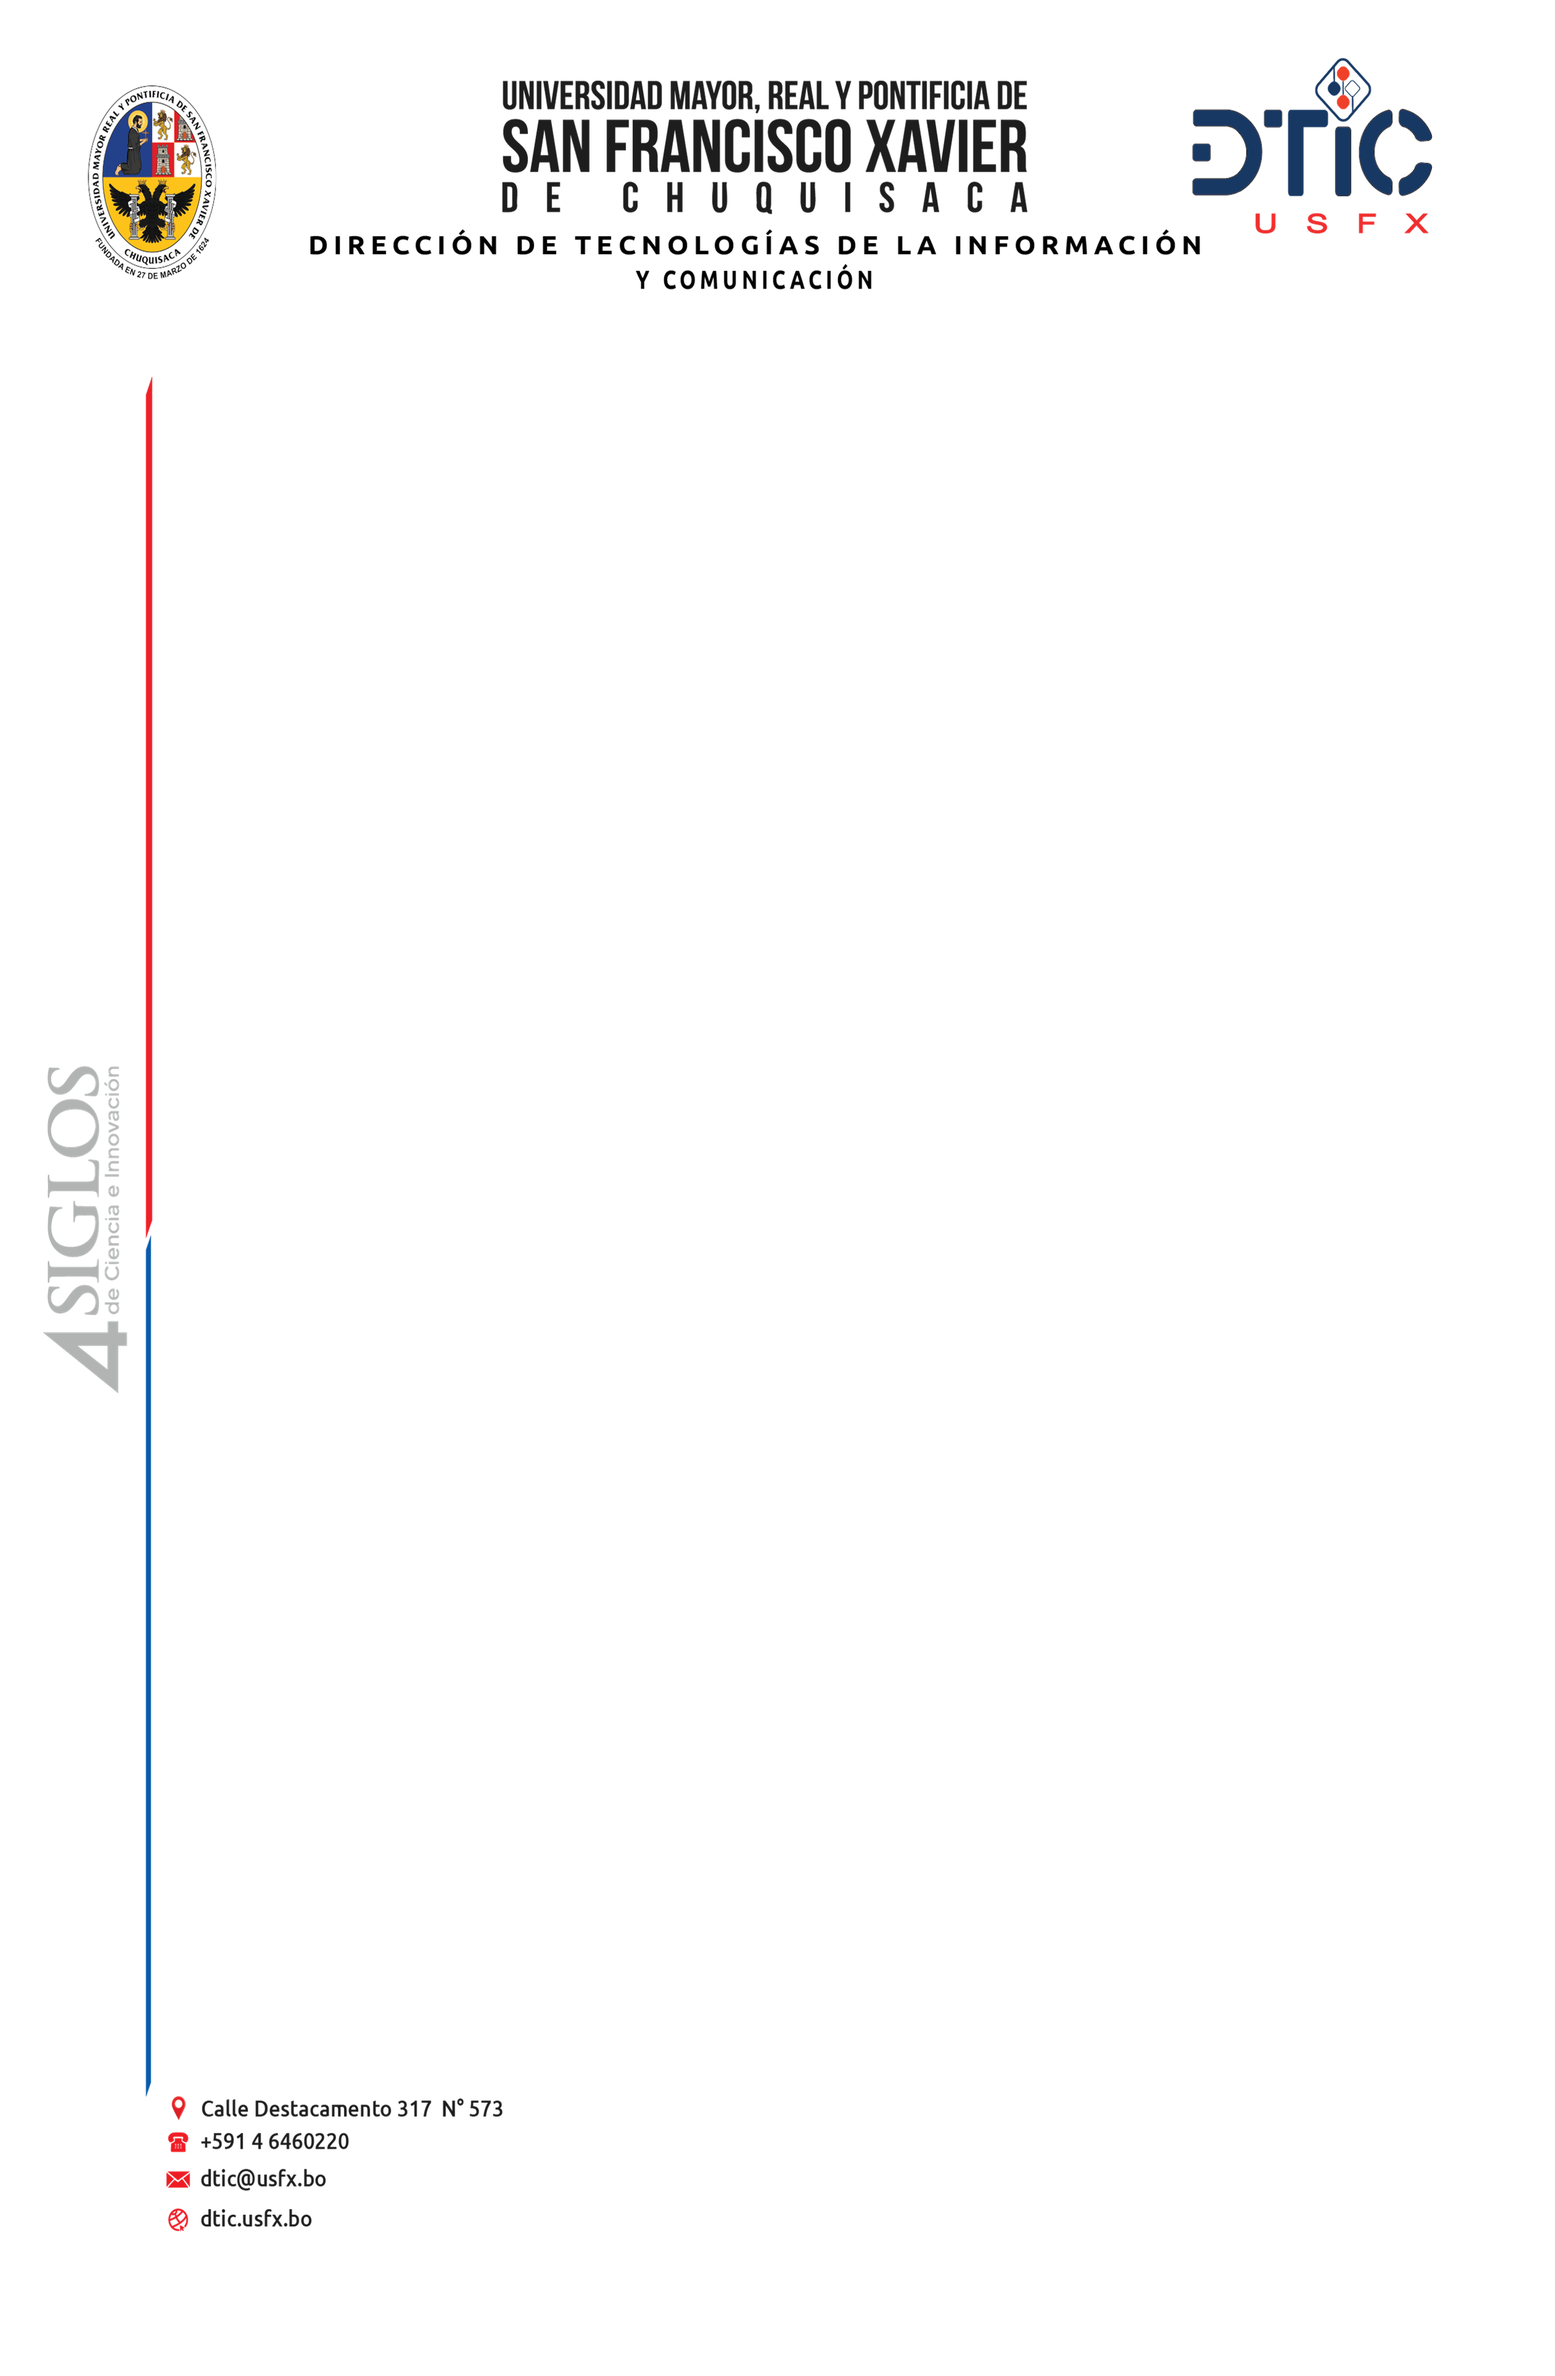
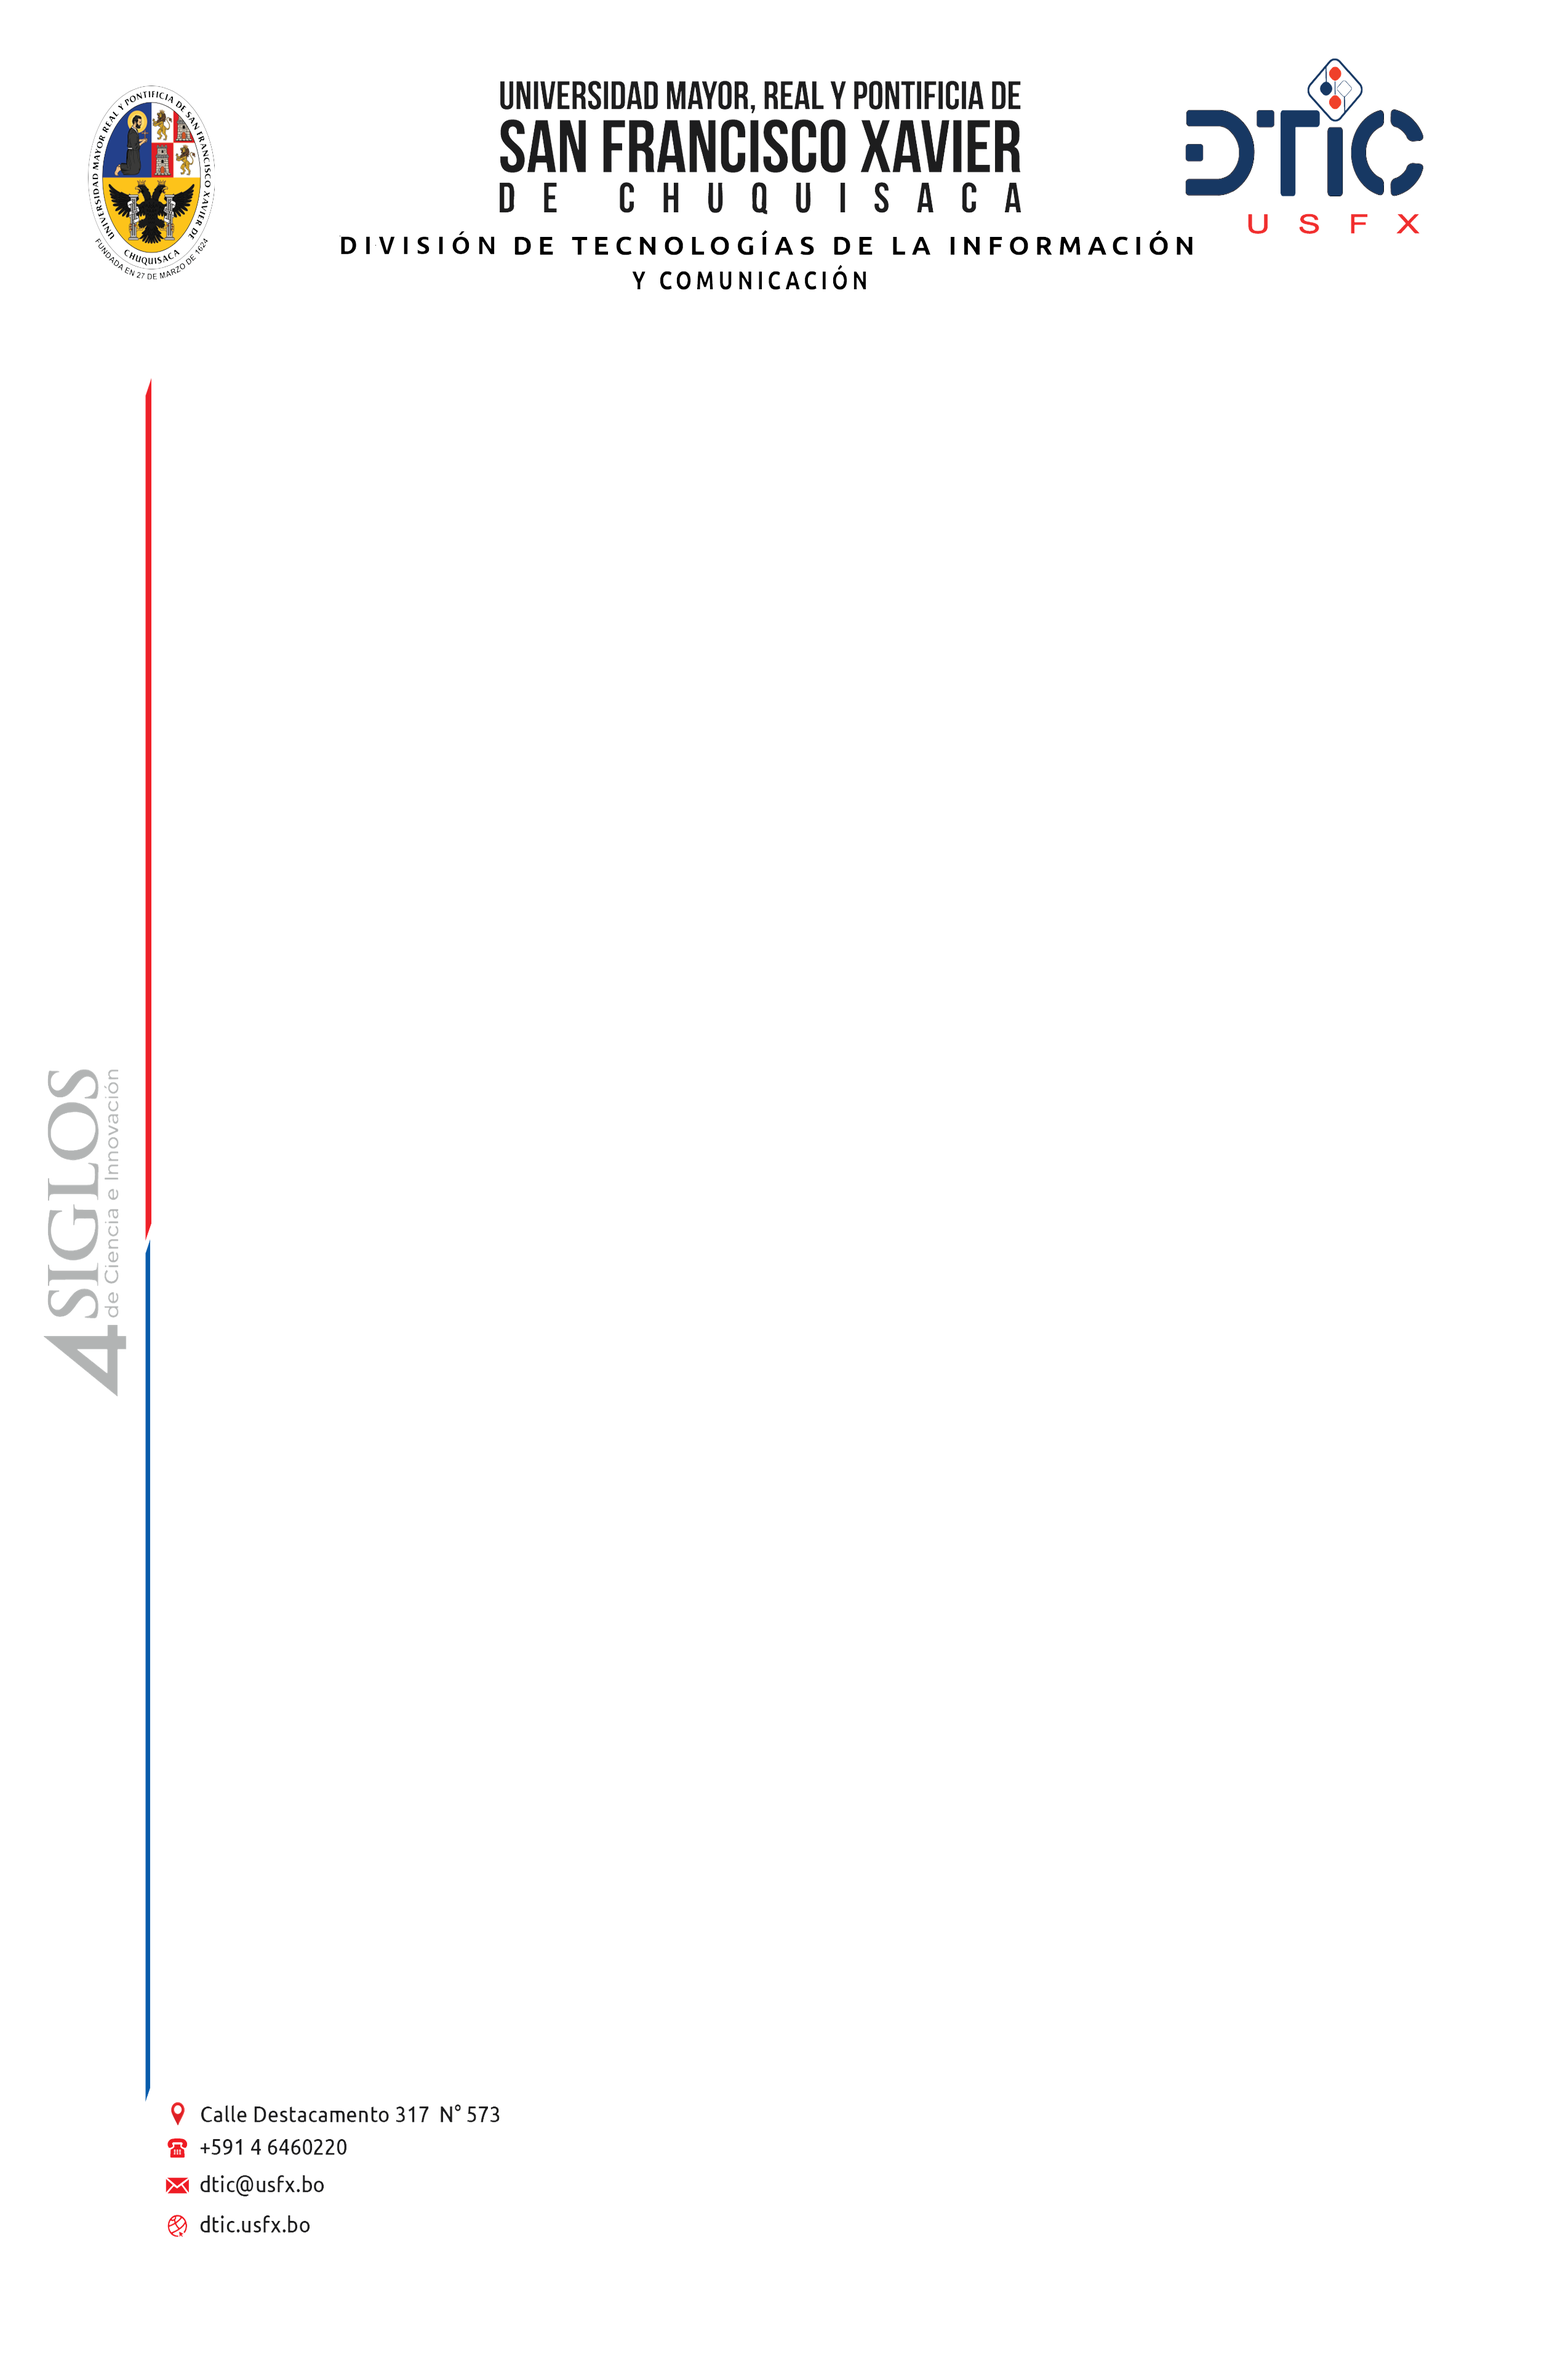
Carta de entrega: membrete nuevo de la DTIC (División de Tecnologías…)

diff --git a/backend/views/carta/pdf.php b/backend/views/carta/pdf.php
@@ -14,7 +14,8 @@ use yii\helpers\Html;
  * contactos) es UNA imagen (web/img/fondo-carta.png) que va de fondo en
  * todas las paginas (@page background), estirada a la hoja completa. Como en
  * la carta Word de la DTIC, el membrete no llega a los bordes: deja 6 mm a
- * la izquierda, 8 arriba, 17 a la derecha y 20 abajo (mide 193 x 302 mm).
+ * la izquierda, 8 arriba, 18 a la derecha y 19 abajo (mide 192 x 303 mm;
+ * membrete "División de Tecnologías…", cambiado el 2026-11-04).
  * mPDF no puede dar a un fondo un tamaño en mm, asi que esos espacios ya
  * vienen dentro de la imagen: es un lienzo transparente del tamaño de la
  * hoja oficio con el membrete original pegado en esa posicion. Si cambia el
